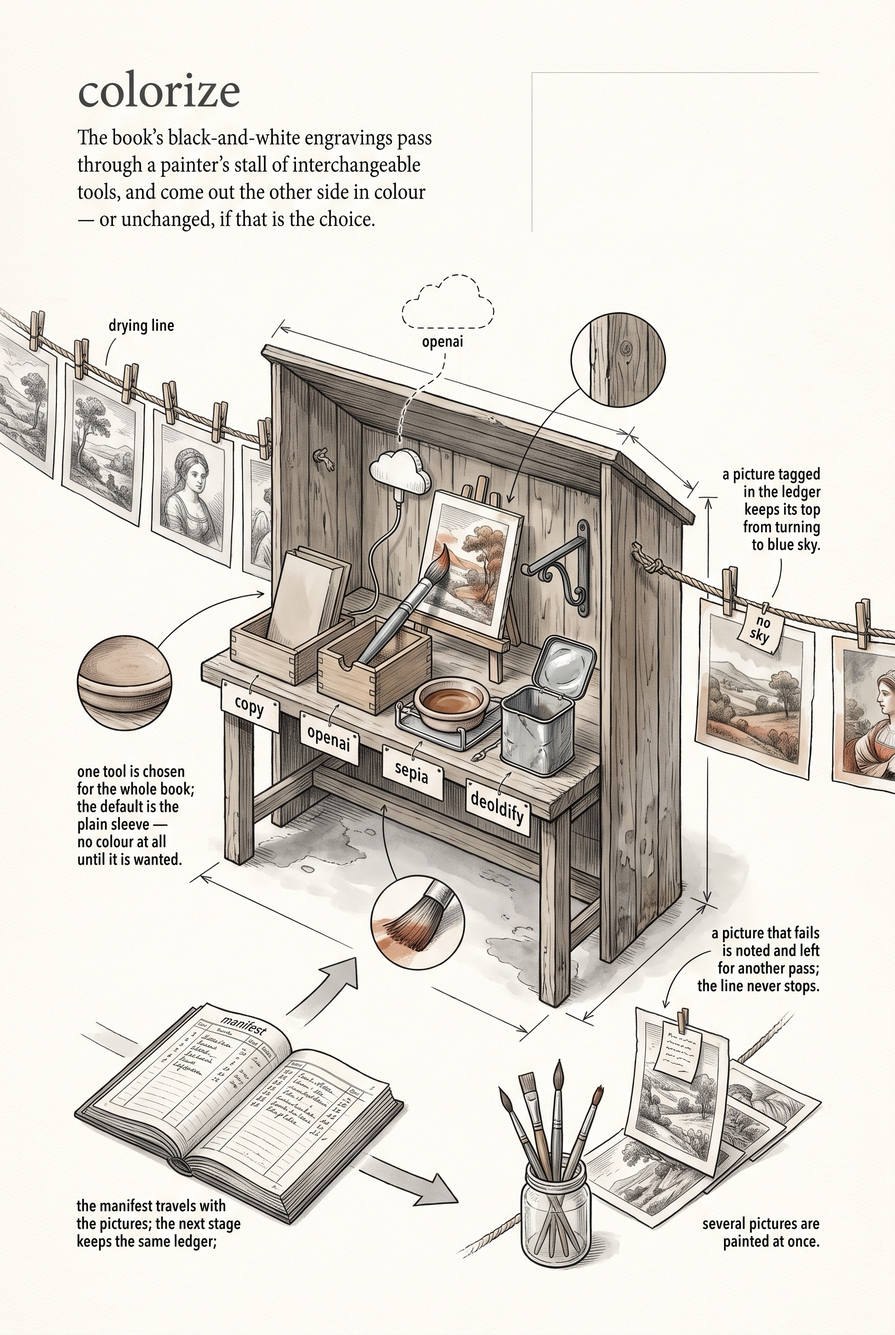
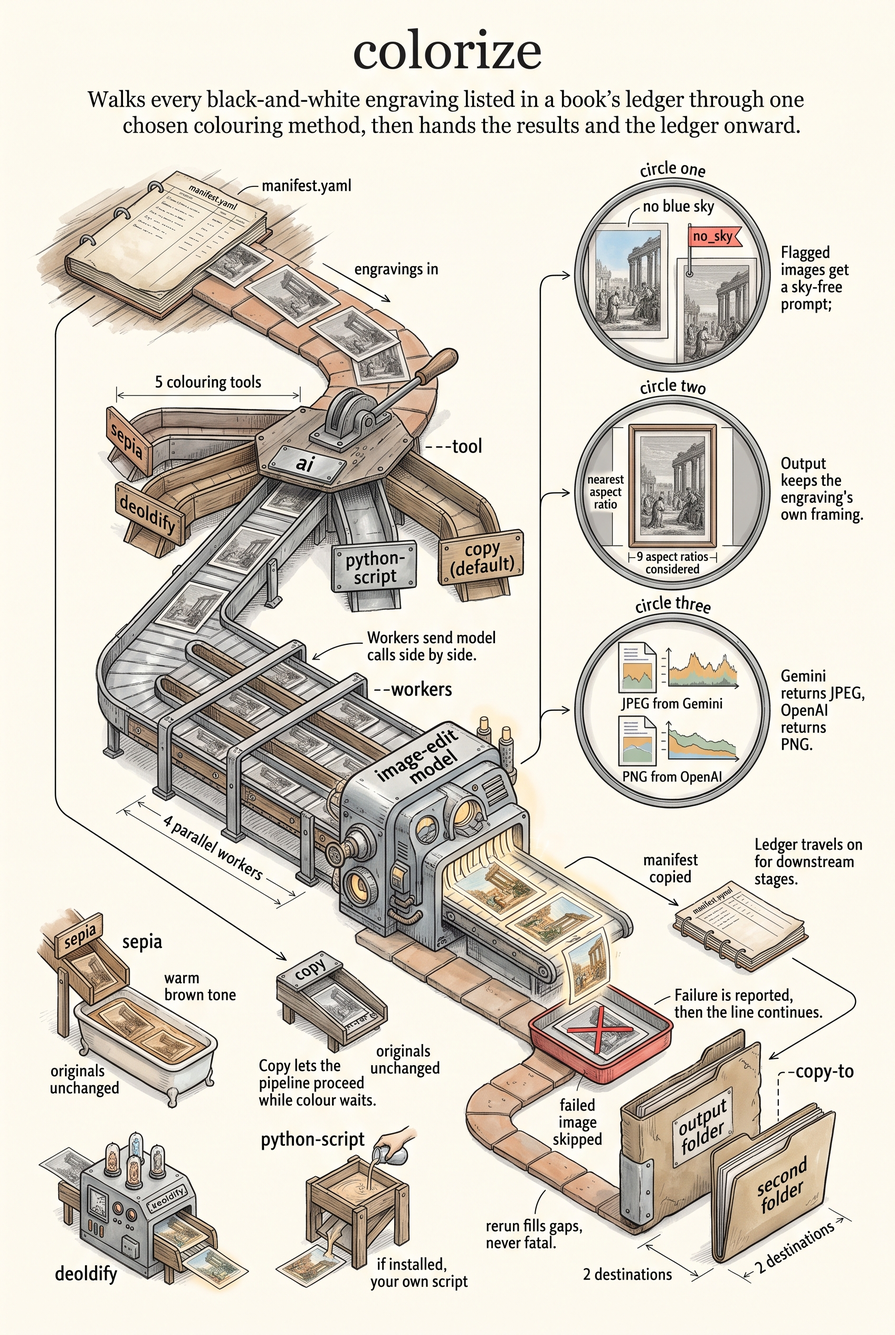
Model role defaults live in data; colorize draws with Gemini (#853); refresh tool infographics

diff --git a/cmd/colorize/main.go b/cmd/colorize/main.go
@@ -15,6 +15,7 @@ import (
 	"sync"
 
 	"github.com/TrueBlocks/trueblocks-art/packages/ai"
+	"github.com/TrueBlocks/trueblocks-art/packages/aiflags"
 	"github.com/TrueBlocks/trueblocks-art/packages/cli"
 	"github.com/TrueBlocks/trueblocks-art/packages/creds"
 	cooking "github.com/TrueBlocks/trueblocks-art/packages/prompt"
@@ -63,9 +64,10 @@ func main() {
 			{Name: "input-dir", Help: "directory containing extracted B&W images and manifest.yaml", Default: ""},
 			{Name: "output-dir", Help: "override output directory for colorized images", Default: ""},
 			{Name: "copy-to", Help: "additional directory to copy colorized images to", Default: ""},
-			{Name: "tool", Help: "colorization tool to use: openai, deoldify, python-script, or copy (default: copy)", Default: "copy"},
+			{Name: "tool", Help: "colorization tool: ai, sepia, deoldify, python-script, or copy (default: copy)", Default: "copy"},
 			{Name: "script", Help: "path to custom Python colorization script (used with --tool=python-script)", Default: ""},
-			{Name: "prompt", Help: "override the default colorization prompt for OpenAI", Default: ""},
+			{Name: "prompt", Help: "override the default colorization prompt", Default: ""},
+			aiflags.ImageModelFlag(""),
 			{Name: "workers", Help: "number of concurrent workers for API calls (default: 4)", Default: 4},
 		},
 		Run: run,
@@ -135,9 +137,25 @@ func run(c *cli.Context) error {
 		workers = 1
 	}
 
+	// The AI tool reads its model from the registry's pro image slot — Gemini
+	// today — so adopting a better or cheaper drawer is a models.json edit, not
+	// a rebuild. --image-model overrides it (e.g. gpt-image-2 for the old path).
+	var aiModel string
+	if tool == "ai" {
+		builtin, err := ai.RoleModel(ai.TierPro, ai.RoleImage)
+		if err != nil {
+			return err
+		}
+		model, _, err := aiflags.ResolveImageModel(c, builtin)
+		if err != nil {
+			return err
+		}
+		aiModel = model
+	}
+
 	fmt.Fprintf(os.Stderr, "Colorizing %d images using %s (%d workers)...\n", len(manifest.Images), tool, workers)
 
-	if tool == "openai" && workers > 1 {
+	if tool == "ai" && workers > 1 {
 		type result struct {
 			idx  int
 			file string
@@ -160,7 +178,7 @@ func run(c *cli.Context) error {
 				for j := range jobs {
 					srcPath := filepath.Join(absInput, j.entry.File)
 					dstPath := filepath.Join(absOutput, j.entry.File)
-					err := colorizeOpenAI(srcPath, dstPath, promptOverride, j.entry.NoSky)
+					err := colorizeAI(srcPath, dstPath, aiModel, promptOverride, j.entry.NoSky)
 					results <- result{idx: j.idx, file: j.entry.File, err: err}
 				}
 			}()
@@ -203,8 +221,8 @@ func run(c *cli.Context) error {
 				err = copyFile(srcPath, dstPath)
 			case "sepia":
 				err = applySepia(srcPath, dstPath)
-			case "openai":
-				err = colorizeOpenAI(srcPath, dstPath, promptOverride, entry.NoSky)
+			case "ai":
+				err = colorizeAI(srcPath, dstPath, aiModel, promptOverride, entry.NoSky)
 			case "deoldify":
 				err = runDeOldify(srcPath, dstPath)
 			case "python-script":
@@ -353,10 +371,22 @@ func applySepia(src, dst string) error {
 	return png.Encode(out, result)
 }
 
-func colorizeOpenAI(src, dst string, promptOverride string, noSky bool) error {
-	apiKey := creds.MustGet("OPENAI_API_KEY")
+// colorizeAI edits one engraving with the resolved registry model, dispatching
+// to whichever provider owns it. The model is not hard-coded: it comes from the
+// pro image slot (Gemini today) or --image-model, so colorize is no longer a
+// special case that only OpenAI can serve.
+func colorizeAI(src, dst, model, promptOverride string, noSky bool) error {
+	spec, ok := ai.LookupModel(model)
+	if !ok || !spec.Draws {
+		return fmt.Errorf("%q is not a drawing model in the registry", model)
+	}
+	keyName, err := ai.KeyNameForProvider(spec.Provider)
+	if err != nil {
+		return err
+	}
+	apiKey := creds.MustGet(keyName)
 	if apiKey == "" {
-		return fmt.Errorf("OPENAI_API_KEY not set")
+		return fmt.Errorf("%s not set", keyName)
 	}
 
 	imgData, err := os.ReadFile(src)
@@ -369,24 +399,72 @@ func colorizeOpenAI(src, dst string, promptOverride string, noSky bool) error {
 		return fmt.Errorf("building colorize prompt: %w", err)
 	}
 
-	provider := &ai.DallE{APIKey: apiKey}
-	imgBytes, err := provider.GenerateImage(context.Background(), prompt, ai.ImageOptions{
-		Model:   "gpt-image-2",
-		Size:    "auto",
-		Quality: "high",
-		Input:   []ai.ImageInput{{MediaType: "image/png", Data: imgData}},
-	})
+	opts := ai.ImageOptions{
+		Model: model,
+		Input: []ai.ImageInput{{MediaType: "image/png", Data: imgData}},
+	}
+	// Match the output shape to the source so a captioned plate is not recropped:
+	// Gemini regenerates at an aspect ratio, so give it the nearest one to the
+	// engraving; OpenAI's "auto" already preserves the input's shape.
+	switch spec.Provider {
+	case ai.ProviderGemini:
+		opts.Size = nearestGeminiAspect(src)
+		opts.Resolution = "2K"
+	default:
+		opts.Size = "auto"
+		opts.Quality = "high"
+	}
+
+	provider, err := ai.ImageProviderFor(spec.Provider, apiKey)
+	if err != nil {
+		return err
+	}
+	imgBytes, err := provider.GenerateImage(context.Background(), prompt, opts)
 	if err != nil {
 		return fmt.Errorf("edit API: %w", err)
 	}
 
 	// Name the output for the bytes the editor actually returned rather than
-	// assuming the destination's extension. gpt-image returns PNG today, so this
-	// is a no-op now; it stops the tool from ever mislabeling.
+	// assuming the destination's extension — Gemini returns JPEG, OpenAI PNG.
 	if adjusted, changed := ai.PathWithTrueExt(dst, imgBytes); changed {
 		dst = adjusted
 	}
 	return os.WriteFile(dst, imgBytes, 0644)
+}
+
+// geminiAspects are the aspect ratios the Gemini image API accepts, paired with
+// their decimal value. nearestGeminiAspect picks the one closest to the source
+// so editing preserves the engraving's framing instead of cropping to a default.
+// defaultGeminiAspect is the fallback when the source's shape cannot be read.
+const defaultGeminiAspect = "2:3"
+
+var geminiAspects = []struct {
+	name  string
+	ratio float64
+}{
+	{"1:1", 1.0}, {defaultGeminiAspect, 2.0 / 3}, {"3:2", 3.0 / 2}, {"3:4", 3.0 / 4},
+	{"4:3", 4.0 / 3}, {"4:5", 4.0 / 5}, {"5:4", 5.0 / 4}, {"9:16", 9.0 / 16},
+	{"16:9", 16.0 / 9},
+}
+
+func nearestGeminiAspect(src string) string {
+	f, err := os.Open(src)
+	if err != nil {
+		return defaultGeminiAspect
+	}
+	defer func() { _ = f.Close() }()
+	cfg, _, err := image.DecodeConfig(f)
+	if err != nil || cfg.Height == 0 {
+		return defaultGeminiAspect
+	}
+	target := float64(cfg.Width) / float64(cfg.Height)
+	best, bestDiff := defaultGeminiAspect, math.MaxFloat64
+	for _, a := range geminiAspects {
+		if d := math.Abs(a.ratio - target); d < bestDiff {
+			best, bestDiff = a.name, d
+		}
+	}
+	return best
 }
 
 func colorizePrompt(override string, noSky bool) (string, error) {

diff --git a/cmd/colorize/aspect_test.go b/cmd/colorize/aspect_test.go
@@ -1,0 +1,42 @@
+package main
+
+import (
+	"image"
+	"image/png"
+	"os"
+	"path/filepath"
+	"testing"
+)
+
+func TestNearestGeminiAspect(t *testing.T) {
+	for _, tc := range []struct {
+		name          string
+		width, height int
+		want          string
+	}{
+		{"square", 100, 100, "1:1"},
+		{"portrait 2:3", 100, 150, "2:3"},
+		{"landscape 3:2", 150, 100, "3:2"},
+		{"tall scan near 9:16", 116, 202, "9:16"},
+		{"wide 16:9", 160, 90, "16:9"},
+	} {
+		t.Run(tc.name, func(t *testing.T) {
+			src := filepath.Join(t.TempDir(), "img.png")
+			f, err := os.Create(src)
+			if err != nil {
+				t.Fatal(err)
+			}
+			if err := png.Encode(f, image.NewRGBA(image.Rect(0, 0, tc.width, tc.height))); err != nil {
+				t.Fatal(err)
+			}
+			f.Close()
+			if got := nearestGeminiAspect(src); got != tc.want {
+				t.Errorf("nearestGeminiAspect(%dx%d) = %q, want %q", tc.width, tc.height, got, tc.want)
+			}
+		})
+	}
+	// A missing or unreadable source falls back to the default, never a panic.
+	if got := nearestGeminiAspect(filepath.Join(t.TempDir(), "nope.png")); got != "2:3" {
+		t.Errorf("missing source = %q, want the 2:3 fallback", got)
+	}
+}

diff --git a/cmd/proof/main.go b/cmd/proof/main.go
@@ -28,7 +28,7 @@ func main() {
 			{Name: "input", Help: "path to extracted markdown file (from extract-text)", Default: ""},
 			{Name: "pdf", Help: "path to the source PDF file (for rendering page images)", Default: ""},
 			{Name: "output", Help: "output proofed markdown file (default: stdout)", Default: ""},
-			aiflags.TextModelFlag("gpt-4o"),
+			aiflags.TextModelFlag(""),
 			{Name: "dpi", Help: "DPI for rendering PDF pages (default: 200)", Default: 200},
 			{Name: "start-page", Help: "start proofreading from this page number (default: 1)", Default: 1},
 			{Name: "end-page", Help: "stop proofreading at this page number (default: all)", Default: 0},
@@ -43,7 +43,11 @@ func run(c *cli.Context) error {
 	inputPath := c.String("input")
 	pdfPath := c.String("pdf")
 	outputPath := c.String("output")
-	model, _, err := aiflags.ResolveTextModel(c, "gpt-4o")
+	builtin, err := ai.RoleModel(ai.TierPro, ai.RoleCompose)
+	if err != nil {
+		return err
+	}
+	model, _, err := aiflags.ResolveTextModel(c, builtin)
 	if err != nil {
 		return err
 	}

diff --git a/cmd/planbook/main.go b/cmd/planbook/main.go
@@ -29,7 +29,7 @@ func main() {
 			{Name: "output", Help: "output file path (default: stdout)"},
 			{Name: "title", Help: "working title for the book"},
 			{Name: "dry-run", Help: "print the prompt without calling the API", Default: false},
-			aiflags.TextModelFlag("claude-sonnet-5"),
+			aiflags.TextModelFlag(""),
 			{Name: "config", Help: "path to config.yaml for API key", Default: pipeline.DefaultConfigPath()},
 		},
 		Run: run,
@@ -43,7 +43,11 @@ func run(c *cli.Context) error {
 	outputPath := c.String("output")
 	bookTitle := c.String("title")
 	dryRun := c.Bool("dry-run")
-	model, _, err := aiflags.ResolveTextModel(c, "claude-sonnet-5")
+	builtin, err := ai.RoleModel(ai.TierPro, ai.RoleCompose)
+	if err != nil {
+		return err
+	}
+	model, _, err := aiflags.ResolveTextModel(c, builtin)
 	if err != nil {
 		return err
 	}

diff --git a/cmd/colorize/README.md b/cmd/colorize/README.md
@@ -8,7 +8,7 @@ several colorization tools over the whole manifest.
 ## Usage
 
 ```bash
-colorize --input-dir extracted/ --tool openai
+colorize --input-dir extracted/ --tool ai
 ```
 
 colorize reads `manifest.yaml` from the input directory — the ledger
@@ -16,20 +16,25 @@ colorize reads `manifest.yaml` from the input directory — the ledger
 
 - `copy` (the default) — no color at all; the originals are copied through, so
   the rest of the pipeline can proceed while color decisions wait.
-- `openai` — the image-edit API (`gpt-image-2`) colorizes each engraving using
-  the prompt in `prompts/colorize.md`; an image flagged `no_sky` in the
-  manifest gets a prompt variant that keeps its top from becoming blue sky.
-  Runs `--workers` images in parallel (4 by default). The API key comes from
-  the shared credentials store via `packages/creds`.
+- `ai` — an image-edit model colorizes each engraving using the prompt in
+  `prompts/colorize.md`; an image flagged `no_sky` in the manifest gets a
+  prompt variant that keeps its top from becoming blue sky. The model comes
+  from the model registry's pro image slot (Gemini today); `--image-model`
+  overrides it (e.g. `gpt-image-2`). Runs `--workers` images in parallel
+  (4 by default). The API key for the model's provider comes from the shared
+  credentials store via `packages/creds`. Each output file is named with the
+  extension matching the bytes the model returned (Gemini returns JPEG,
+  OpenAI PNG).
 - `sepia` — a local sepia tone, no API.
 - `deoldify` — the DeOldify colorizer, if installed in python3.
 - `python-script` — any custom script taking `src dst` arguments, named with
   `--script`.
 
 Output goes to `--output-dir`, or to the manifest's `supporting_dir` when set,
-and the manifest is copied alongside so downstream stages keep their ledger.
-`--copy-to` mirrors the results to a second directory in the same pass. A
-failed image is reported and skipped, never fatal — rerun to fill gaps.
+or otherwise to `./colorize`, and the manifest is copied alongside so
+downstream stages keep their ledger. `--copy-to` mirrors the results to a
+second directory in the same pass. A failed image is reported and skipped,
+never fatal — rerun to fill gaps.
 
 ## Options
 
@@ -46,9 +51,10 @@ Flags:
   --input-dir    directory containing extracted B&W images and manifest.yaml
   --output-dir   override output directory for colorized images
   --copy-to      additional directory to copy colorized images to
-  --tool         colorization tool to use: openai, deoldify, python-script, or copy (default: copy)
+  --tool         colorization tool: ai, sepia, deoldify, python-script, or copy (default: copy)
   --script       path to custom Python colorization script (used with --tool=python-script)
-  --prompt       override the default colorization prompt for OpenAI
+  --prompt       override the default colorization prompt
+  --image-model  override the image model (default: the registry's pro image model)
   --workers      number of concurrent workers for API calls (default: 4)
   -v, --verbose  enable verbose (debug) logging
   -q, --quiet    suppress info logging (warnings/errors only)
@@ -59,7 +65,7 @@ Flags:
 ## Example
 
 ```bash
-colorize --input-dir extracted/ --tool openai --workers 8 --copy-to composed/images/
+colorize --input-dir extracted/ --tool ai --workers 8 --copy-to composed/images/
 ```
 
 ## Infographic

diff --git a/cmd/planbook/README.md b/cmd/planbook/README.md
@@ -11,7 +11,7 @@ Anthropic API.
 planbook --origins design/mystery/origins --title "The Quaker Detective" --output "design/mystery/Plan for Mystery.md"
 ```
 
-planbook reads everything in the origins folder (`.md`, `.txt`, `.yaml`) —
+planbook reads everything in the origins folder (`.md`, `.txt`, `.yaml`, `.yml`) —
 notes, sketches, research, fragments — plus the series' `genre.yaml` from the
 folder above it, and asks the model for a single markdown Plan in the fixed
 house shape:
@@ -25,9 +25,9 @@ house shape:
 That table is exactly what `scaffold` parses, so the plan drops straight into
 `design/` and the mill runs from it. `--example` supplies an existing Plan as
 a format reference; `--dry-run` prints the assembled prompt without spending;
-`--text-model` picks the writer (default `claude-sonnet-5`). The call is
-logged to the shared cost ledger. An existing output file is overwritten with
-a warning.
+`--text-model` picks the writer (default: the ai registry's pro-tier compose
+model). The call is logged to the shared cost ledger. An existing output file
+is overwritten with a warning.
 
 ## Options
 

diff --git a/cmd/proof/README.md b/cmd/proof/README.md
@@ -14,8 +14,9 @@ proof --input extracted.md --pdf book.pdf --output proofed.md
 proof takes the markdown that `extract-text` produced and the original PDF,
 and checks every page's words against the page itself. For each
 `<!-- page N -->` block it renders that page of the PDF to an image with
-`pdftoppm`, then sends text and image together to a vision model (`gpt-4o` by
-default, `--text-model` to choose another) with strict orders:
+`pdftoppm`, then sends text and image together to a vision model (the
+registry's pro-tier compose model by default, `--text-model` to choose another)
+with strict orders:
 
 - **Fix only scanning damage** — garbled characters, wrong letters, broken
   ligatures, the long-s (ſ) misread as f, words broken at line ends.

diff --git a/cmd/read-annotations/README.md b/cmd/read-annotations/README.md
@@ -20,7 +20,7 @@ rest of the pipeline reads those notes back.
 It walks every annotation in the PDF and sorts each into one of three kinds:
 
 - `rotate` — exactly the word "rotate"
-- `no_sky` — anything starting with "no sky"
+- `no_sky` — anything starting with "no sky" (or "no_sky")
 - `chapter` — everything else, treated as a chapter title
 
 Default output is one line per annotation (`page 41  chapter  The Mill
